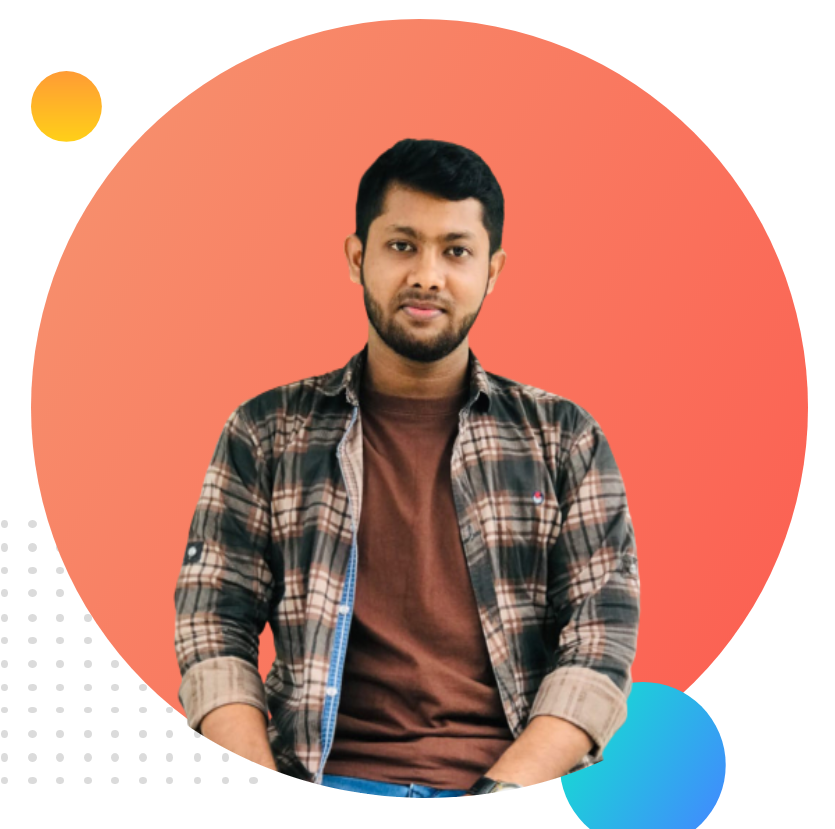
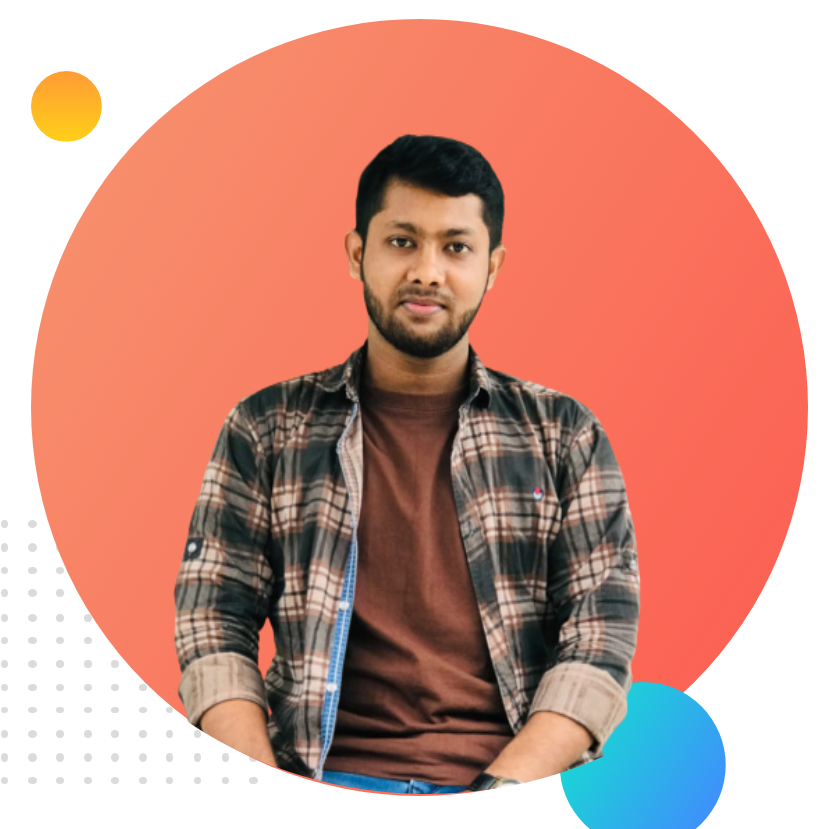
dream added

diff --git a/index.html b/index.html
@@ -20,10 +20,21 @@
             <a class="link-button" target="_blank" href="https://www.linkedin.com/in/subrota-dey-9a7579210/">HIRE ME</a>
         </div>
         
-        <div>
+        <div class="half-width">
             <img src="images/subrota-pic-with-bg.png" alt="Subrota picture">
         </div>
 
+    </section>
+    <section class="dream-big">
+        <div class="half-width">
+            <img src="images/subrota-pic-with-bg2.png" alt="">
+        </div>
+        <div class="half-width">
+            <h1>Dream Big</h1>
+            <h2>Become a web developer</h2>
+            <p>I already learned the basic HTML and CSS. I can build any simple website. I can even teach my grandma how to make simple website. My goal is to build 3 websites and learn advanced topics.</p>
+            <a class="link-button" target="_blank" href="">DOWNLOAD RESUME</a>
+        </div>
     </section>
 </body>
 </html>

diff --git a/style.css b/style.css
@@ -10,13 +10,14 @@ h1{
 }
 section{
     display: flex;
+    margin-bottom: 150px;
 }
 .half-width{
-    width: 80%;
+    width: 50%;
     padding-left: 5%;
 }
 .half-width img{
-    width: 70%;
+    width: 80%;
 }
 .link-button{
     text-decoration: none;
@@ -29,4 +30,9 @@ section{
 .top-banner{
     background-image: url(images/top-banner.png);
     background-repeat: no-repeat;
+}
+.dream-big{
+    background-image: url(images/dream-bg.png);
+    background-repeat: no-repeat;
+    background-position: right;
 }
